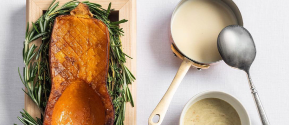
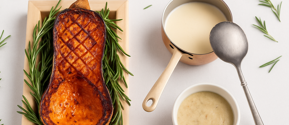
modified:   imagens/abobora.png 	deleted:    imagens/abobora_grelhada.png 	deleted:    imagens/abobora_teste.png 	modified:   project.php 	modified:   projectFinal/tela_strogonoff/prato_strogonoff.php

diff --git a/project.php b/project.php
@@ -25,7 +25,7 @@
                 <img src="imagens/prato_do_dia.png" alt="Prato 1">
             </div>
             <div class="carousel-slide fade">
-                <img src="imagens/abobora_teste.png" alt="Prato 2">
+                <img src="imagens/abobora.png" alt="Prato 2">
             </div>
             <div class="carousel-slide fade">
                 <img src="imagens/mouse.png" alt="Prato 3">

diff --git a/projectFinal/tela_strogonoff/prato_strogonoff.php b/projectFinal/tela_strogonoff/prato_strogonoff.php
@@ -12,7 +12,7 @@
 
 <body>
     <div class="container">
-        <a href="/project.php">&lt;</a>
+        <a href="Projetos/project.php">&lt;</a>
         <h2>Strogonoff de Cogumelos</h2>
 
 
